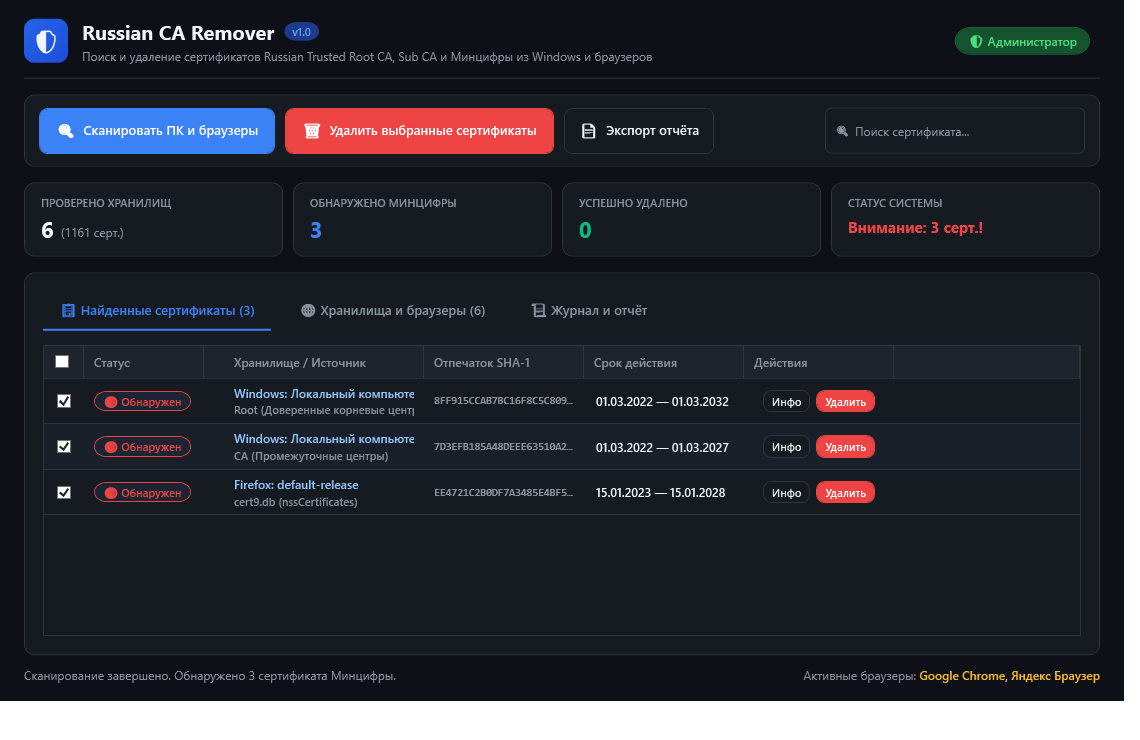
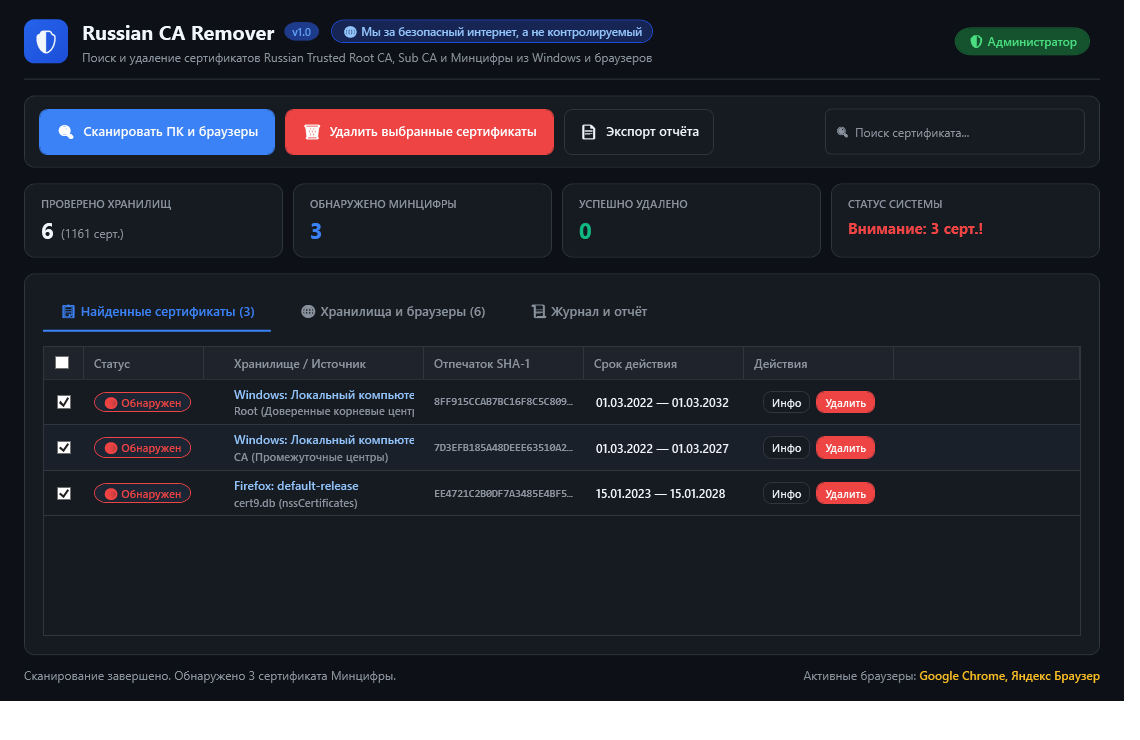
Add motto: 'Мы за безопасный интернет, а не контролируемый' to UI, reports, and README

diff --git a/RussianCertRemover/MainWindow.xaml b/RussianCertRemover/MainWindow.xaml
@@ -54,9 +54,12 @@
                                 <Border Margin="10,0,0,0" Padding="8,2" CornerRadius="12" Background="#1E3A8A" VerticalAlignment="Center">
                                     <TextBlock Text="v1.0" FontSize="11" FontWeight="SemiBold" Foreground="#60A5FA" />
                                 </Border>
+                                <Border Margin="12,0,0,0" Padding="10,3" CornerRadius="12" Background="#172554" BorderBrush="#1D4ED8" BorderThickness="1" VerticalAlignment="Center">
+                                    <TextBlock Text="🌐 Мы за безопасный интернет, а не контролируемый" FontSize="11.5" FontWeight="SemiBold" Foreground="#93C5FD" />
+                                </Border>
                             </StackPanel>
                             <TextBlock Text="Поиск и удаление сертификатов Russian Trusted Root CA, Sub CA и Минцифры из Windows и браузеров" 
-                                       FontSize="12" Foreground="{StaticResource TextSecondaryBrush}" Margin="0,3,0,0" />
+                                       FontSize="12" Foreground="{StaticResource TextSecondaryBrush}" Margin="0,4,0,0" />
                         </StackPanel>
                     </StackPanel>
 

diff --git a/RussianCertRemover/Services/ReportGeneratorService.cs b/RussianCertRemover/Services/ReportGeneratorService.cs
@@ -229,6 +229,7 @@ namespace RussianCertRemover.Services
             sb.AppendLine("    <div class=\"title\">");
             sb.AppendLine("      <h1>Отчёт очистки сертификатов Минцифры</h1>");
             sb.AppendLine("      <p>Russian Trusted Root CA / Russian Trusted Sub CA Cleaner</p>");
+            sb.AppendLine("      <div style=\"font-size:12px; color:#60a5fa; margin-top:4px; font-weight:600;\">🌐 Мы за безопасный интернет, а не контролируемый</div>");
             sb.AppendLine("    </div>");
             sb.AppendLine("  </div>");
             sb.AppendLine("  <div class=\"meta-badge\">");
@@ -382,6 +383,7 @@ namespace RussianCertRemover.Services
             var sb = new StringBuilder();
             sb.AppendLine("================================================================================");
             sb.AppendLine("      ОТЧЕТ ПОИСКА И УДАЛЕНИЯ СЕРТИФИКАТОВ МИНЦИФРЫ (RUSSIAN CA REMOVER)        ");
+            sb.AppendLine("           «Мы за безопасный интернет, а не контролируемый»                     ");
             sb.AppendLine("================================================================================");
             sb.AppendLine($"Дата формирования: {DateTime.Now:dd.MM.yyyy HH:mm:ss}");
             sb.AppendLine($"Компьютер:         {Environment.MachineName}");

diff --git a/README.md b/README.md
@@ -1,7 +1,8 @@
 # 🛡 Russian CA Remover
 
 <p align="center">
-  <b>Утилита для полного поиска и безопасного удаления сертификатов Минцифры («Russian Trusted Root CA», «Russian Trusted Sub CA») из Windows и всех браузеров с наглядным отчётом.</b>
+  <b>Утилита для полного поиска и безопасного удаления сертификатов Минцифры («Russian Trusted Root CA», «Russian Trusted Sub CA») из Windows и всех браузеров с наглядным отчётом.</b><br><br>
+  <b>🌐 <i>«Мы за безопасный интернет, а не контролируемый»</i></b>
 </p>
 
 <p align="center">
@@ -15,6 +16,8 @@
 <p align="center">
   <img src="assets/screenshot.png" alt="Интерфейс программы Russian CA Remover" width="850" />
 </p>
+
+> ### 🌐 *«Мы за безопасный интернет, а не контролируемый»*
 
 ---
 
